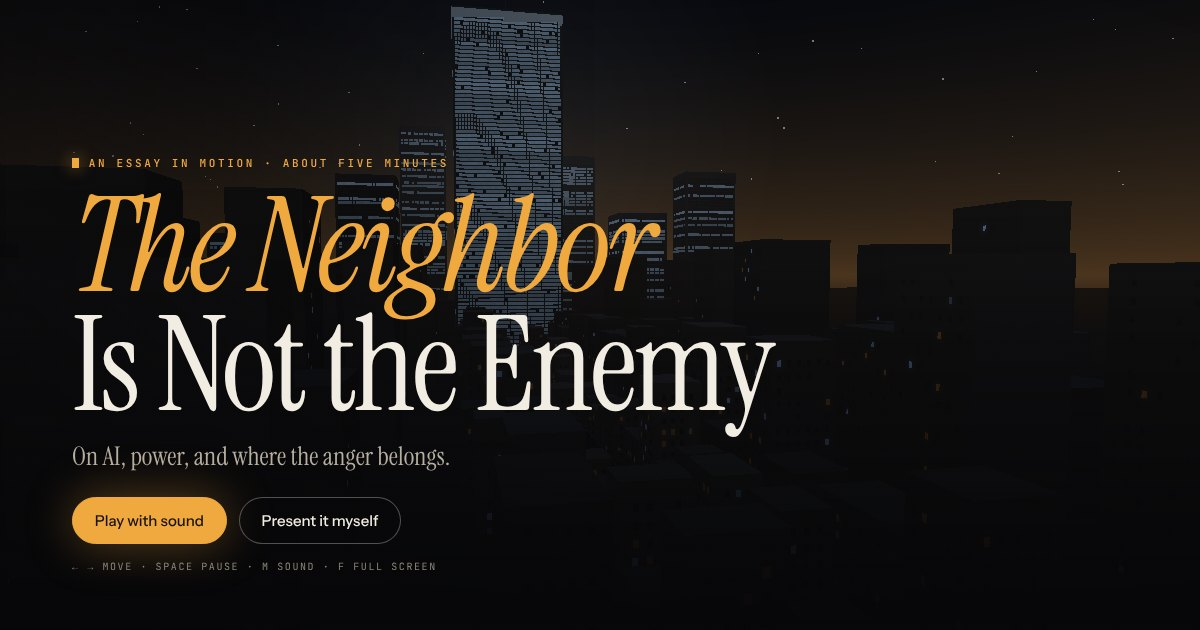
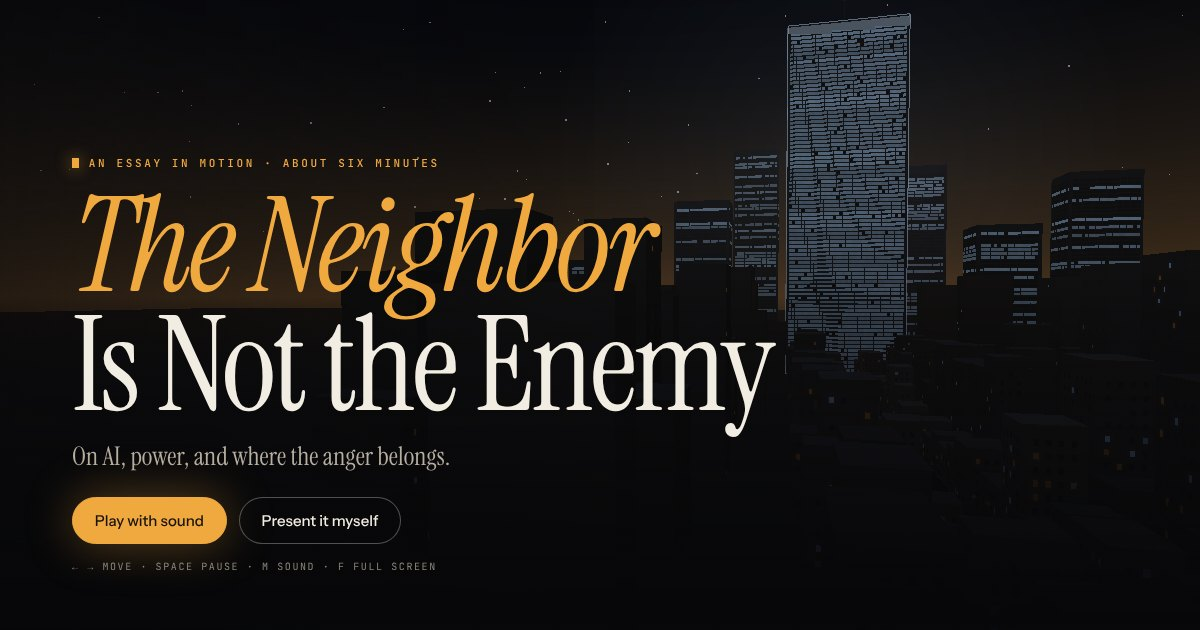
Keep the giant visible and named
The title screen, the premise and "Two stories" are reframed so the
giant stands clear of the text, with separate camera aims for phones.
The giant gets a cold outline and a label that follows whatever part
of the tower is on screen, in every scene where it is part of the story.

Changed region(s): [[0.0, 0.0, 1.0, 0.573]]

diff --git a/index.html b/index.html
@@ -81,6 +81,10 @@ button{font:inherit}
 .l-top{justify-content:flex-start}
 .l-center{justify-content:center}
 .l-left{justify-content:center}
+.l-topleft{justify-content:flex-start}
+.l-topleft>.blk{max-width:min(860px,62%)}
+.l-bottomleft{justify-content:flex-end}
+.l-bottomleft>.blk{max-width:min(860px,58%)}
 .l-left>.blk{max-width:min(760px,100%)}
 .l-quote{justify-content:center;color:var(--amber-ink)}
 .l-quote em{color:var(--amber-ink)}
@@ -213,6 +217,7 @@ em{font-style:italic;color:var(--lamp)}
   .lr.hd .lk{display:none}
   .hl{display:none}
   .t-body{font-size:15px}
+  .l-topleft>.blk,.l-bottomleft>.blk{max-width:100%}
   #aim{width:72px;height:72px;margin:-36px 0 0 -36px}
 }
 @media (max-width:560px){
@@ -1586,6 +1591,8 @@ function buildCity() {
   }
   towerMesh.frustumCulled = false; scene.add(towerMesh);
 
+  const edges = new THREE.LineSegments(new THREE.EdgesGeometry(new THREE.BoxGeometry(TOWER.w + .4, TOWER.h, TOWER.d + .4)), new THREE.LineBasicMaterial({ color: 0x9db6d2, transparent: true, opacity: .7 }));
+  edges.position.set(TOWER.x, TOWER.h / 2, TOWER.z); scene.add(edges);
   crownMat = new THREE.MeshBasicMaterial({ color: 0x3a4654 });
   const crown = new THREE.Mesh(new THREE.BoxGeometry(TOWER.w + 1.2, 5, TOWER.d + 1.2), crownMat); crown.position.set(TOWER.x, TOWER.h - 4, TOWER.z); scene.add(crown);
   const ant = new THREE.Mesh(new THREE.BoxGeometry(.8, 34, .8), new THREE.MeshLambertMaterial({ color: 0x2b3038 })); ant.position.set(TOWER.x, TOWER.h + 17, TOWER.z); scene.add(ant);
@@ -1825,10 +1832,18 @@ function addTag(id, text, pos, cold, lift) {
   const s = document.createElement('span'); s.textContent = text; const i = document.createElement('i');
   el.appendChild(i); el.appendChild(s); tagsEl.appendChild(el); TAGS.push({ id, el, pos });
 }
+function giantAnchor() {
+  const top = Math.max(90, innerHeight * .1);
+  for (let k = 0; k <= 20; k++) {
+    const y = TOWER.h * (1 - k / 20), s = screenOf(TOWER.x, y, TOWER.z + TOWER.d / 2 + 1);
+    if (s && s.y >= top && s.y <= innerHeight * .8 && s.x > 70 && s.x < innerWidth - 70) return s;
+  }
+  return null;
+}
 function updateTags() {
   for (const t of TAGS) {
     if (!Wd.tags.includes(t.id)) continue;
-    const s = screenOf(t.pos.x, t.pos.y, t.pos.z);
+    const s = t.id === 'giant' ? giantAnchor() : screenOf(t.pos.x, t.pos.y, t.pos.z);
     if (!s) { t.el.style.opacity = 0; continue; }
     t.el.style.opacity = '';
     t.el.style.transform = `translate3d(${s.x.toFixed(1)}px,${s.y.toFixed(1)}px,0)`;
@@ -1916,10 +1931,10 @@ const S = [
       [5.6, () => { setWorld({ aim: 'hero' }); AU.tick(.035); }]
     ] },
   { id: 'premise', lab: 'The premise', dur: 22.5, chord: 'Bbmaj7', murmur: .08, arp: 2.1,
-    cam: { p: [8, 30, 60], l: [-62, 50, -320], dur: 7.5, push: 12 },
+    cam: { p: [8, 30, 60], l: [-153, 50, -320], pl: [-22, 50, -320], dur: 7.5, push: 12 },
     world: { words: 'hero', aim: 'hero', scrim: .5, scrimtop: 1 },
     cues: [
-      [3, TX('top', sec('The premise') + '<p class="t-st">A lot of the anger at AI is pointed at <em>the wrong people.</em></p>')],
+      [3, TX('topleft', sec('The premise') + '<p class="t-st">A lot of the anger at AI is pointed at <em>the wrong people.</em></p>')],
       [3, () => setWorld({ tags: ['neighbor', 'giant'] })],
       [8, () => { setWorld({ words: null }); AU.murmur(0); }],
       [9.4, AD('<p class="t-body">Some of that anger is earned. But too much of it lands on the person with the least power in the story.</p>')],
@@ -1927,7 +1942,7 @@ const S = [
     ] },
   { id: 'moved', sec: 'I', lab: 'What moved', dur: 19.5, chord: 'Fadd9', arp: 1.7,
     cam: { p: [60, 105, 95], l: [-14, 10, -190], dur: 6, push: 16 },
-    world: { warm: 0, bells: true },
+    world: { warm: 0, bells: true, tags: ['giant'] },
     cues: [
       [.9, TX('bottom', sec('I · What moved') + '<p class="t-st">AI didn’t just automate tasks.</p>')],
       [4.8, AD('<p class="t-st"><em>It moved power.</em></p>')],
@@ -2001,14 +2016,14 @@ const S = [
       [26.8, AD('<p class="t-lead closing"><i>None of these make the neighbor the problem.</i></p>')]
     ] },
   { id: 'two-uses', sec: 'IV', lab: 'Two stories', dur: 15, chord: 'Ebmaj7', drone: 1,
-    cam: { p: [0, 5, -296], l: [0, 150, -470], dur: 6.5, push: 12 },
-    world: { warm: .22, cool: .5, crown: .3 },
+    cam: { p: [0, 5, -250], l: [-80, 150, -470], pl: [-10, 150, -470], dur: 6.5, push: 12 },
+    world: { warm: .22, cool: .5, crown: .3, scrimleft: 1, tags: ['giant'] },
     cues: [
-      [1.6, TX('bottom', sec('IV · Two stories') + '<p class="t-st">A solo creator using AI to compete and a giant using AI to protect its margins <em>are not doing the same thing.</em></p>')]
+      [1.6, TX('bottomleft', sec('IV · Two stories') + '<p class="t-st">A solo creator using AI to compete and a giant using AI to protect its margins <em>are not doing the same thing.</em></p>')]
     ] },
   { id: 'giant', sec: 'IV', lab: 'The giant’s version', dur: 23, chord: 'Ebmaj7', drone: 1,
     cam: { p: [-40, 70, -200], l: [-96, 140, -460], dur: 6, push: 10 },
-    world: { warm: .22, cool: .5, crown: .3, tower: 1, scrimleft: 1 },
+    world: { warm: .22, cool: .5, crown: .3, tower: 1, scrimleft: 1, tags: ['giant'] },
     cues: [
       [.6, TX('left', sec('IV · The giant’s version') + '<p class="t-head">Follow the savings</p><div class="tally ns"></div>')],
       [2.2, AD('<div class="tl"><span class="tk">What it costs them to make</span><span class="tv">Down</span></div>', '.tally')],
@@ -2050,7 +2065,7 @@ const S = [
     ] },
   { id: 'creativity', sec: 'V', lab: 'Where it belongs', dur: 17.6, chord: 'Dm9', drone: .35, arp: 2.2,
     cam: { p: [0, 10, 28], l: [0, 46, -400], dur: 6, push: 9 },
-    world: { warm: .2, cool: .3, tower: .44, crown: 1, extras: 4, aim: 'hero' },
+    world: { warm: .2, cool: .3, tower: .44, crown: 1, extras: 4, aim: 'hero', tags: ['giant'] },
     cues: [
       [1, TX('bottom', sec('V · Where it belongs') + '<p class="t-st">Creativity is not the problem.</p>')],
       [4.4, AD('<p class="t-st"><em>Misdirected anger is. So is gatekeeping.</em></p>')],
@@ -2060,7 +2075,7 @@ const S = [
     ] },
   { id: 'questions', sec: 'V', lab: 'Better questions', dur: 28, chord: 'Gm9', drone: .35,
     cam: { p: [-30, 62, -170], l: [-84, 124, -460], dur: 6.5, push: 10 },
-    world: { warm: .2, cool: .3, tower: .44, crown: 1, extras: 4, aim: 'tower', scrimleft: 1 },
+    world: { warm: .2, cool: .3, tower: .44, crown: 1, extras: 4, aim: 'tower', scrimleft: 1, tags: ['giant'] },
     cues: [
       [.6, TX('left', sec('V · Where it belongs') + '<p class="t-head">Aim the hard questions where the power is</p>')],
       [2.2, AD('<p class="t-body">AI raises real questions about jobs, credit, consent and who benefits. They deserve serious answers. Ask them of the people who can actually give them.</p><div class="items ns"></div>')],
@@ -2109,7 +2124,8 @@ function go(i) {
   buildScene(s);
   if (s.id !== 'quote') $('#amber').classList.remove('on');
   setWorld(Object.assign({}, s.world), true);
-  camSet(s.cam.p, s.cam.l, s.cam.dur, -.6, s.cam.push || 0, s.dur - s.cam.dur);
+  const portrait = innerWidth / innerHeight < 1;
+  camSet(s.cam.p, portrait && s.cam.pl ? s.cam.pl : s.cam.l, s.cam.dur, -.6, s.cam.push || 0, s.dur - s.cam.dur);
   words.forEach(w => { if (!s.world.words) w.t = Math.max(w.t, .8); });
   if (AU.ready) {
     if (s.id !== 'quote') AU.unhush(.8);
@@ -2240,8 +2256,9 @@ try {
   addTag('neighbor', 'the neighbor', V(heroPos.x, heroPos.y + .6, heroPos.z), false, 72);
   addTag('giant', 'the giant', V(TOWER.x, TOWER.h * .8, TOWER.z + TOWER.d / 2 + 1), true, 46);
   extraPos.forEach((p, k) => addTag('n' + (k + 1), '0' + (k + 1), V(p.x, p.y + .5, p.z), false, k % 2 ? 84 : 44));
-  cam.bp = new THREE.Vector3(-46, 62, 118); cam.bl = new THREE.Vector3(36, 40, -260);
-  camSet([-46, 62, 118], [36, 40, -260], .01, 0, 30, 90);
+  const introLook = innerWidth / innerHeight < 1 ? [-10, 52, -260] : [-150, 52, -260];
+  cam.bp = new THREE.Vector3(-46, 62, 118); cam.bl = new THREE.Vector3(...introLook);
+  camSet([-46, 62, 118], introLook, .01, 0, 30, 90);
   setWorld({ hero: false, cool: .1 }, true);
 } catch (err) {
   GLOK = false;
@@ -2290,6 +2307,24 @@ requestAnimationFrame(frame);
 window.__film = {
   go, S, start, textLog, get sceneT() { return sceneT; }, get bloom() { return !!bloom && bloom.enabled; },
   step(sec) { const n = Math.round(sec / .05); for (let i = 0; i < n; i++) { simulate(.05); updateWords(.05); updateAim(.05); } if (GLOK) { updateTags(); render(); } },
+  giantReport() {
+    if (!GLOK) return null;
+    const W = innerWidth, H = innerHeight, pts = [];
+    for (const x of [-1, 1]) for (const y of [0, 1]) for (const z of [-1, 1]) {
+      const v = new THREE.Vector3(TOWER.x + x * TOWER.w / 2, y * TOWER.h, TOWER.z + z * TOWER.d / 2).project(camera);
+      if (v.z < 1) pts.push({ x: (v.x * .5 + .5) * W, y: (-v.y * .5 + .5) * H });
+    }
+    if (!pts.length) return { vis: 0, cover: 0 };
+    const bx0 = Math.max(0, Math.min(...pts.map(p => p.x))), bx1 = Math.min(W, Math.max(...pts.map(p => p.x)));
+    const by0 = Math.max(0, Math.min(...pts.map(p => p.y))), by1 = Math.min(H, Math.max(...pts.map(p => p.y)));
+    const area = Math.max(0, bx1 - bx0) * Math.max(0, by1 - by0);
+    let cover = 0;
+    document.querySelectorAll('#text .st:not(.gone) .blk.show').forEach(b => {
+      const r = document.createRange(); r.selectNodeContents(b);
+      for (const q of r.getClientRects()) cover += Math.max(0, Math.min(q.right, bx1) - Math.max(q.left, bx0)) * Math.max(0, Math.min(q.bottom, by1) - Math.max(q.top, by0));
+    });
+    return { vis: +(area / (W * H) * 100).toFixed(1), cover: area ? +(cover / area * 100).toFixed(1) : 0, box: [bx0, by0, bx1, by1].map(Math.round) };
+  },
   async soundtrack(sr) {
     const total = S.reduce((a, s) => a + s.dur, 0) + 3;
     AU.initOffline(sr, total); started = true; playing = true; auto = true;
